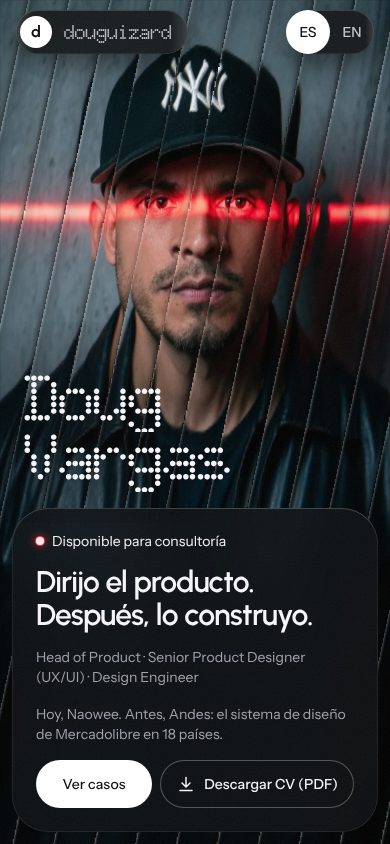
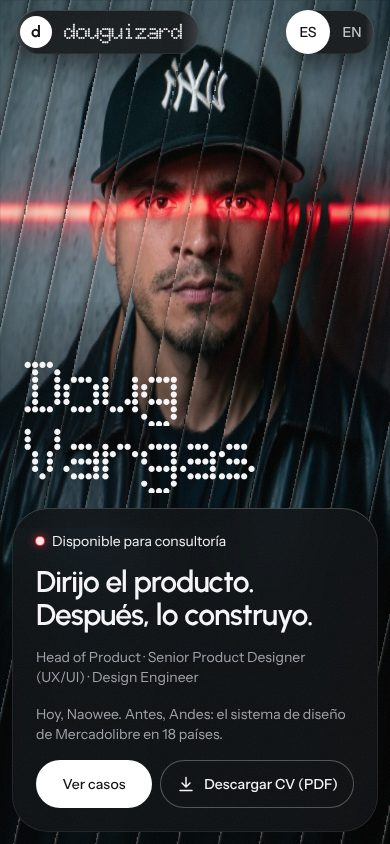
docs(rediseno): Doug elige la propuesta B; imagen del héroe en pausa
Claude-Session: https://claude.ai/code/session_0115FVoACEbMEVHhAnRs4Nt5

diff --git a/docs/rediseno-2026/propuestas/B-tipo/especimen.html b/docs/rediseno-2026/propuestas/B-tipo/especimen.html
@@ -24,14 +24,14 @@
     if (!rm && matchMedia("(min-width: 1024px)").matches) d.classList.add("cine");
     if (/[?&]captura=1/.test(q)) d.classList.add("captura");
     if (/[?&]lang=en/.test(q)) d.lang = "en";
-    var tm = q.match(/[?&]tipo=([1-6])/); d.setAttribute("data-tipo", tm ? tm[1] : "1");
+    var tm = q.match(/[?&]tipo=([1-6])/); d.setAttribute("data-tipo", tm ? tm[1] : "1");   // B-tipo
     if (/[?&]limpio=1/.test(q)) d.classList.add("limpio");
   })();
 </script>
 <link rel="preload" as="image" href="../../retratos-hf/199598aa.jpg" fetchpriority="high">
 <link rel="preload" as="font" type="font/woff2" href="../fonts/urbanist-latin.woff2" crossorigin>
 <link rel="preload" as="font" type="font/woff2" href="../fonts/doto-latin.woff2" crossorigin>
-<!-- Espécimen B-tipo: fuentes del nombre (OFL) -->
+<!-- B-tipo: fuentes del nombre (todas OFL); se precarga la de la opción por defecto -->
 <link rel="preload" as="font" type="font/woff2" href="../fonts/mona-sans-latin.woff2" crossorigin>
 <style>
 /* ── Fuentes · OFL. Local primero (propuestas/fonts), Google Fonts como segunda fuente ───────────────── */
@@ -705,7 +705,7 @@ html.rm .hoja.abierta .hoja-panel { opacity: 1; }
   font-size: var(--n-marca-fs, 16px); letter-spacing: var(--n-marca-tr, -0.01em); font-variation-settings: var(--n-fvs); }
 
 /* 1 · Grotesca extendida — Mona Sans Expanded */
-:root[data-tipo="1"] { --n-ff: "Mona Sans", var(--f-display); --n-w: 800; --n-wd: 125%; --n-fs: 128px; --n-fs-m: 68px; --n-tr: -0.055em; --n-lh: .86;
+:root[data-tipo="1"] { --n-ff: "Mona Sans", var(--f-display); --n-w: 800; --n-wd: 125%; --n-fs: 128px; --n-fs-m: 72px; --n-tr: -0.055em; --n-lh: .86;
   --n-marca-ff: "Mona Sans"; --n-marca-w: 700; --n-marca-wd: 125%; --n-marca-fs: 15px; --n-marca-tr: -0.03em; }
 @keyframes t1-abrir { from { font-stretch: 100%; } }
 :root[data-tipo="1"]:not(.rm) .nombre-xl .linea > span { animation: t1-abrir 900ms var(--ease-out) 180ms both; }
@@ -721,22 +721,25 @@ html.rm .hoja.abierta .hoja-panel { opacity: 1; }
 :root[data-tipo="2"] .nombre-xl .linea:first-child { padding-bottom: .1em; margin-bottom: -.13em; }
 
 /* 3 · Display técnica — Big Shoulders Stencil (opsz 72) */
-:root[data-tipo="3"] { --n-ff: "Big Shoulders Stencil", var(--f-display); --n-w: 700; --n-fs: 150px; --n-fs-m: 84px; --n-tr: -0.012em; --n-lh: .8; --n-fvs: "opsz" 72;
+:root[data-tipo="3"] { --n-ff: "Big Shoulders Stencil", var(--f-display); --n-w: 640; --n-fs: 148px; --n-fs-m: 84px; --n-tr: -0.01em; --n-lh: .84; --n-fvs: "opsz" 72;
   --n-marca-ff: "Big Shoulders Stencil"; --n-marca-w: 700; --n-marca-fs: 20px; --n-marca-tr: .01em; }
+/* en una sola línea: una banda paralela al láser (en móvil vuelve a dos) */
+:root[data-tipo="3"] .nombre-xl .linea, :root[data-tipo="3"] .k1-nombre .xl-hueco { display: inline-block; vertical-align: top; }
+:root[data-tipo="3"] .nombre-xl .linea:first-child, :root[data-tipo="3"] .k1-nombre .xl-hueco:first-of-type { margin-right: .2em; }
 @keyframes t3-llenar { from { font-weight: 200; } }
 :root[data-tipo="3"]:not(.rm) .nombre-xl .linea > span { animation: t3-llenar 800ms var(--ease-out) 260ms both; }
 :root[data-tipo="3"]:not(.rm) .nombre-xl .linea + .linea > span { animation-delay: 340ms; }
 
 /* 4 · Corte láser — Geologica (SHRP 100) partida por el haz */
 :root[data-tipo="4"] { --n-ff: "Geologica", var(--f-display); --n-w: 600; --n-fs: 128px; --n-fs-m: 66px; --n-tr: -0.05em; --n-lh: .9; --n-fvs: "SHRP" 100, "CRSV" 0, "slnt" 0;
-  --n-marca-ff: "Geologica"; --n-marca-w: 600; --n-marca-fs: 16px; --n-marca-tr: -0.025em; --corte: .5em; --desp-max: -0.07em; }
+  --n-marca-ff: "Geologica"; --n-marca-w: 600; --n-marca-fs: 16px; --n-marca-tr: -0.025em; --corte: .5em; --desp-max: -0.1em; }
 :root[data-tipo="4"] .nombre-xl .linea + .linea { overflow: visible clip; }
 :root[data-tipo="4"] .nombre-xl .m { display: block; }
-:root[data-tipo="4"] .nombre-xl .m.inf { position: absolute; left: 0; top: 0; clip-path: inset(calc(var(--corte) + 1px) -1em -1em -1em); }
-:root[data-tipo="4"] .nombre-xl .m.sup { clip-path: inset(-1em -1em calc(100% - var(--corte) + 1px) -1em); translate: var(--desp) 0; }
+:root[data-tipo="4"] .nombre-xl .m.inf { position: absolute; left: 0; top: 0; clip-path: inset(calc(var(--corte) + 1.5px) -1em -1em -1em); translate: calc(var(--desp) * -.6) 0; }
+:root[data-tipo="4"] .nombre-xl .m.sup { clip-path: inset(-1em -1em calc(100% - var(--corte) + 1.5px) -1em); translate: var(--desp) 0; }
 :root[data-tipo="4"] .nombre-xl .linea + .linea > span { position: relative; }
 @keyframes t4-cortar { to { --desp: var(--desp-max); } }
-:root[data-tipo="4"]:not(.rm) .nombre-xl .m.sup { animation: t4-cortar 520ms var(--ease-out) 880ms both; }
+:root[data-tipo="4"]:not(.rm) .nombre-xl .m { animation: t4-cortar 520ms var(--ease-out) 880ms both; }
 :root[data-tipo="4"].rm .nombre-xl, :root[data-tipo="4"] .nombre-xl.cortado { --desp: var(--desp-max); }
 /* en móvil el haz de la foto queda lejos del nombre: el corte trae su propio hilo de 1 px (el mismo de la línea láser) */
 :root[data-tipo="4"] .nombre-xl .hilo { display: none; }
@@ -748,8 +751,9 @@ html.rm .hoja.abierta .hoja-panel { opacity: 1; }
 @keyframes t4-hilo { from { scale: 0 1; } }
 
 /* 5 · Matriz de puntos — Doto (ROND 100) a escala de cartel */
-:root[data-tipo="5"] { --n-ff: "Doto", var(--f-display); --n-w: 800; --n-fs: 134px; --n-fs-m: 66px; --n-tr: -0.075em; --n-lh: .9; --n-fvs: "ROND" 100, "wght" var(--lw);
-  --n-marca-ff: "Doto"; --n-marca-w: 800; --n-marca-fs: 20px; --n-marca-tr: -0.06em; }
+:root[data-tipo="5"] { --n-ff: "Doto", var(--f-display); --n-w: 800; --n-fs: 134px; --n-fs-m: 74px; --n-tr: -0.075em; --n-lh: .9; --n-fvs: "ROND" 100, "wght" var(--lw);
+  --n-marca-ff: "Doto"; --n-marca-w: 900; --n-marca-fs: 22px; --n-marca-tr: -0.06em; }
+:root[data-tipo="5"] .marca > span:last-child { font-variation-settings: "ROND" 100, "wght" 900; }
 :root[data-tipo="5"] .nombre-xl .l { font-style: normal; font-variation-settings: "ROND" 100, "wght" var(--lw); }
 @keyframes t5-encender { from { --lw: 100; opacity: .25; } }
 :root[data-tipo="5"]:not(.rm) .nombre-xl .l { animation: t5-encender 420ms steps(6, end) calc(320ms + var(--i) * 45ms) both; }
@@ -758,11 +762,13 @@ html.rm .hoja.abierta .hoja-panel { opacity: 1; }
 :root[data-tipo="6"] { --n-ff: "Anybody", var(--f-display); --n-w: 700; --n-wd: 112%; --n-fs: 128px; --n-fs-m: 66px; --n-tr: -0.04em; --n-lh: .88;
   --n-marca-ff: "Anybody"; --n-marca-w: 700; --n-marca-wd: 120%; --n-marca-fs: 16px; --n-marca-tr: -0.03em; }
 :root[data-tipo="6"] .nombre-xl .l { font-style: normal; display: inline-block; }
+:root[data-tipo="6"] .k1-nombre .xl-hueco { font-stretch: 100%; }   /* el scroll lleva el XL a wdth 100: el FLIP aterriza en la misma forma */
 
 /* ── Móvil (< 1024): el nombre pasa a la foto, sobre la chaqueta y encima de K2 (antes era una etiqueta de 18 px en K2) ── */
 @media (max-width: 1023px) {
   :root[data-tipo] .nombre-xl { display: block; left: var(--e-24); font-size: var(--n-fs-m); z-index: 4; }
   :root[data-tipo] .k2 .nombre { display: none; }
+  :root[data-tipo="3"] .nombre-xl .linea { display: block; }
   :root[data-tipo] .k2-fila { justify-content: flex-start; }
   @keyframes subir-linea { from { translate: 0 105%; } }
   :root[data-tipo]:not(.rm) .nombre-xl .linea > span { animation-name: subir-linea; animation-duration: 640ms; animation-timing-function: var(--ease-out); animation-delay: 160ms; animation-fill-mode: both; }
@@ -1212,23 +1218,27 @@ html.rm .hoja.abierta .hoja-panel { opacity: 1; }
   // 6 · cada letra reacciona al cursor (wdth/wght) y se comprime con el scroll anclado
   if (T === "6") {
     const L = [...nx.querySelectorAll(".l")], st = L.map(() => ({ w: RM ? 1 : 0, v: 0, t: 0 }));
-    const BASE = { wd: 112, w: 700 }, CERCA = { wd: 150, w: 900 }, INI = { wd: 50, w: 250 };
+    const BASE = { wd: 112, w: 700 }, CERCA = { wd: 150, w: 860 }, INI = { wd: 50, w: 250 };
     let px = -1e4, py = -1e4, t0 = performance.now() + 380;
     addEventListener("pointermove", (e) => { if (e.pointerType === "mouse") { px = e.clientX; py = e.clientY; } }, { passive: true });
     document.addEventListener("pointerleave", () => { px = py = -1e4; });
     const easeOut = (x) => 1 - Math.pow(1 - x, 4);
     function tick(now) {
       const p = (window.__b && window.__b.S) ? (desk.matches ? Math.min(1, window.__b.S.p / 0.6) : 0) : 0;
+      // cercanía de cada letra al cursor; por línea se resta la media: las letras cercanas se ensanchan y las lejanas
+      // se condensan, así la medida de la línea casi no cambia (no crece hacia la cara)
+      const raw = L.map((el) => { const r = el.getBoundingClientRect(), cx = r.left + r.width / 2, cy = r.top + r.height / 2;
+        const d = Math.hypot(px - cx, (py - cy) * 1.6), R = 170; return p > 0.02 ? 0 : Math.exp(-(d * d) / (R * R)); });
+      const media = (k) => { const g = L.map((el, i) => [el, raw[i]]).filter(([el]) => el.parentNode === L[k].parentNode); return g.reduce((s, [, v]) => s + v, 0) / g.length; };
+      const medias = L.map((_, k) => media(k));
       L.forEach((el, i) => {
-        const r = el.getBoundingClientRect(), cx = r.left + r.width / 2, cy = r.top + r.height / 2;
-        const d = Math.hypot(px - cx, (py - cy) * 1.4), R = 230;
-        const near = p > 0.02 ? 0 : Math.exp(-(d * d) / (R * R));
+        const near = raw[i] - medias[i] * 0.85;
         // muelle críticamente amortiguado hacia «near» (respuesta ≈ 0,3 s)
         const s = st[i], w0 = (2 * Math.PI) / 0.3, h = 1 / 60;
         s.v += (w0 * w0 * (near - s.t) - 2 * w0 * s.v) * h; s.t += s.v * h;
         const e = RM ? 1 : easeOut(Math.min(1, Math.max(0, (now - t0 - i * 55) / 760)));   // entrada: de condensada a la forma de reposo
         let wd = INI.wd + (BASE.wd - INI.wd) * e, w = INI.w + (BASE.w - INI.w) * e;
-        wd += (CERCA.wd - BASE.wd) * s.t; w += (CERCA.w - BASE.w) * s.t;
+        wd = Math.min(150, Math.max(60, wd + (CERCA.wd - BASE.wd) * s.t)); w = Math.min(900, Math.max(300, w + (CERCA.w - BASE.w) * s.t));
         wd += (100 - BASE.wd) * p;                                   // con el scroll se cierra a wdth 100, la forma de K1
         el.style.fontStretch = wd.toFixed(1) + "%"; el.style.fontWeight = Math.round(w);
       });
@@ -1239,7 +1249,7 @@ html.rm .hoja.abierta .hoja-panel { opacity: 1; }
   // 4 · con el scroll anclado el corte se cierra (el nombre llega entero a K1)
   if (T === "4" && !RM) {
     const loop = () => { const p = window.__b && window.__b.S ? window.__b.S.p : 0;
-      if (desk.matches && p > 0.001) { nx.querySelector(".m.sup").style.animation = "none"; nx.style.setProperty("--desp", (-0.07 * Math.max(0, 1 - p / 0.3)) + "em"); }
+      if (desk.matches && p > 0.001) { nx.querySelectorAll(".m").forEach((m) => { m.style.animation = "none"; }); nx.style.setProperty("--desp", (-0.07 * Math.max(0, 1 - p / 0.3)) + "em"); }
       requestAnimationFrame(loop); };
     requestAnimationFrame(loop);
   }
@@ -1423,7 +1433,7 @@ html.rm .hoja.abierta .hoja-panel { opacity: 1; }
       // Nombre XL: encima de la línea láser, alineado a 24 px; aterriza en el nombre del panel de K1
       const fs = parseFloat(getComputedStyle(nombreXL).fontSize), nh = nombreXL.offsetHeight;
       const lineA = G.a.pl.Oy + IMG.eye * G.a.pl.Dy;
-      G.nx = { x0: 24, y0: window.__tipoY0 ? window.__tipoY0(lineA, nh, fs) : Math.max(88, lineA - nh - 16) };   // B-tipo: T4 coloca el corte sobre el láser
+      G.nx = { x0: 24, y0: window.__tipoY0 ? window.__tipoY0(lineA, nh, fs) : Math.max(88, lineA - nh - 16) };   // B-tipo: T4 pone el corte sobre el láser
       const on = offsetTo(k1Nombre, esc), fs2 = parseFloat(getComputedStyle(k1Nombre).fontSize);
       G.nx.x1 = on.x; G.nx.y1 = on.y; G.nx.s1 = fs2 / fs;
       nombreXL.style.left = G.nx.x0 + "px"; nombreXL.style.top = G.nx.y0 + "px";

diff --git a/docs/rediseno-2026/00-BRIEF.md b/docs/rediseno-2026/00-BRIEF.md
@@ -45,6 +45,15 @@
   cursor es el vidrio: se abre/aclara bajo el cursor con un spring y reacciona al scroll. Sobria, nada lúdica.
 - Ítems de la §6 sobre la máscara quedan anulados. `prototipos/revelado-mascara.html` y `heroe/` quedan como exploración.
 
+### Decisiones de Doug (5 nov)
+
+- **Elige la Propuesta B «Cine → OS»** ("es más limpia en el landing").
+- La tipografía de su nombre (Urbanist) le parece **sencilla, sin personalidad, genérica** → exploración de lockups
+  en `propuestas/B-tipo/` (pendiente de elegir).
+- Imagen del héroe: las exploraciones ilustrada (`heroe/cyberpunk/`) y render (`heroe/render/`) **no lo convencen**;
+  gusto de referencia en `referencias/ref-6` y `ref-7` (render 3D hiperdetallado, gear industrial gastado), **fondo
+  oscuro, no frambuesa**. Se le dará dirección de arte después; el sistema sigue con la foto provisional.
+
 ## 2. Equipo y fases
 
 | Rol | Qué entrega | Archivo |
